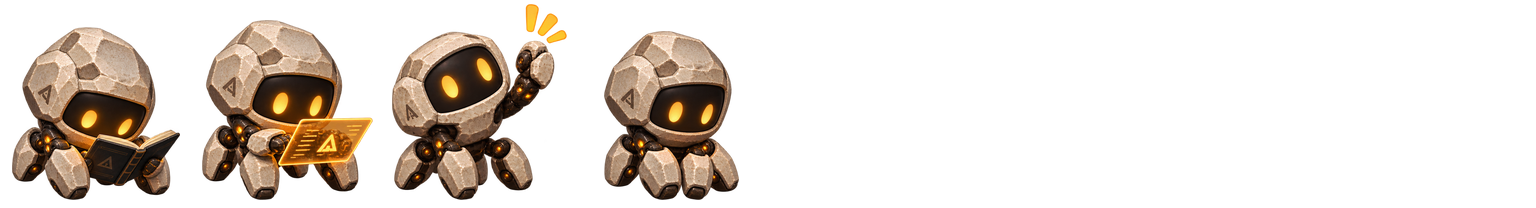
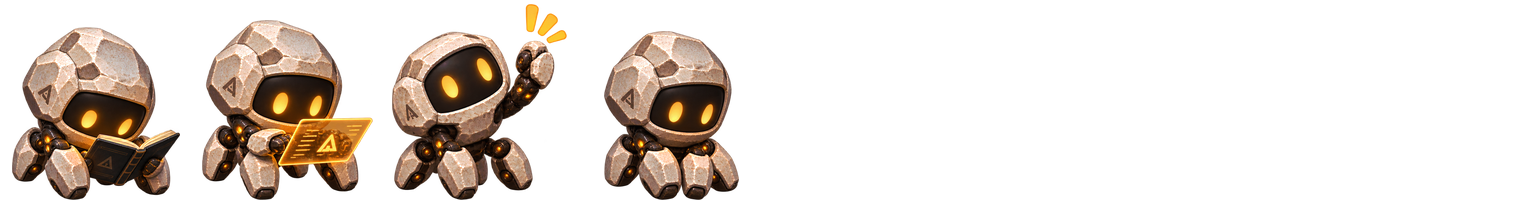
Tone-match the new Roko poses to the existing frames
With the owner's approval, the stone in row 11 is moved in CIELAB to the
old rows' stone mean and spread (visor, joints and amber glow masked
out), so the new poses read as the same warm, pinkish stone. Shapes and
proportions are unchanged; rows 0-10 are untouched.

Claude-Session: https://claude.ai/code/session_01Vdpnbd6eT5EGoQvFbBWEV8

diff --git a/assets/roko/README.md b/assets/roko/README.md
@@ -5,8 +5,8 @@ Roko integration pack on 2026-10-04; original filename `spritesheet-extended.png
 The source directory was not modified. The manifest retains the source grid and
 used columns; only its runtime image filename changes.
 
-- PNG: 1536 × 2496 RGBA, 3,281,501 bytes (rows 0–10 as imported, row 11 added 2026-10-13).
[1 lines of base64/hex data omitted]
+- PNG: 1536 × 2496 RGBA, 3,284,732 bytes (rows 0–10 as imported, row 11 added 2026-10-13).
[2 lines of base64/hex data omitted]
 - One runtime atlas, shared decoded image, fixed 192 × 208 cells, 8 FPS.
 - Timing and state mapping are Rocky integration decisions, not exported platform timing.
@@ -42,8 +42,12 @@ The owner supplied four new poses (`source/roko-poses-2026-10.png`, kept as deli
 states the existing rows could not tell apart. They were placed into row 11, one pose per
 cell (columns 4–7 are empty), without redrawing: each figure was cropped to its opaque
 pixels, all four scaled by the same factor (0.330, Lanczos) so the widest fits 184 px and
-the tallest 196 px, centred, and stood on y = 200 like the existing cells. Rows 0–10 of
-the PNG are byte-for-byte the same pixels as before. `rows/roko-row-11.webp` (156,572 bytes)
+the tallest 196 px, centred, and stood on y = 200 like the existing cells. With the owner's
+approval (2026-10-13) the stone was then tone-matched to rows 0–10: the stone pixels (bright,
+low-saturation; the dark visor, joints and amber glow are left out by a soft mask) were moved
+in CIELAB to the old rows' stone mean and spread, which makes the new stone a little warmer and
+pinker. Shapes and proportions are unchanged. Rows 0–10 of
+the PNG are byte-for-byte the same pixels as before. `rows/roko-row-11.webp` (168,374 bytes)
 was made and checked the same way as the other rows.
 
 | Column | Manifest name  | Pose                                   | Used for                       |

diff --git a/docs/adr/0038-interface-polish-dark-theme.md b/docs/adr/0038-interface-polish-dark-theme.md
@@ -199,7 +199,10 @@
     輪到第三十四輪，Awwwards 自評一直在 7.0–7.2，FWA 58–67，Webby 7.2–7.5，都低於得獎門檻。
   - 第三十五輪（接上 owner 新姿勢之後，混合評審）：Awwwards 7.06、7.14；FWA 65、64；Webby 7.5。三個評審指出新姿勢和原有
     影格像兩個不同角色（新圖石頭顏色較淺、頭比較大、站姿較直），在最重要的時刻（等你決定、執行中）角色辨識斷掉。
-    這是原畫之間的風格差異，沒有自行調色或修圖，交給 owner 決定。
+    這是原畫之間的風格差異，沒有自行調色或修圖，交給 owner 決定。owner 之後同意由我修改：新姿勢的石頭在 CIELAB 色彩空間
+    裡對齊到原有影格石頭的平均與分布（面罩、關節、琥珀光用遮罩排除），顏色變得偏暖、偏粉，和舊圖一致；形狀和
+    比例沒有改（量過頭寬相近，差別在腿較長、站姿較直，只能重畫）。之後一次 e2e 在「簡報變更卡的預覽按鈕」逾時，
+    重跑兩次都通過，記為偶發。
   - Webby、FWA 官網同樣被擋，標準取自限定官方網域的搜尋結果（webbyawards.com/judging-criteria、thefwa.com/live-judging）。
   - 這些是自我檢查，不是評審結果。
 - `npm run test:e2e:jobs`：沒有執行，這台機器沒有安裝 OpenCode。
